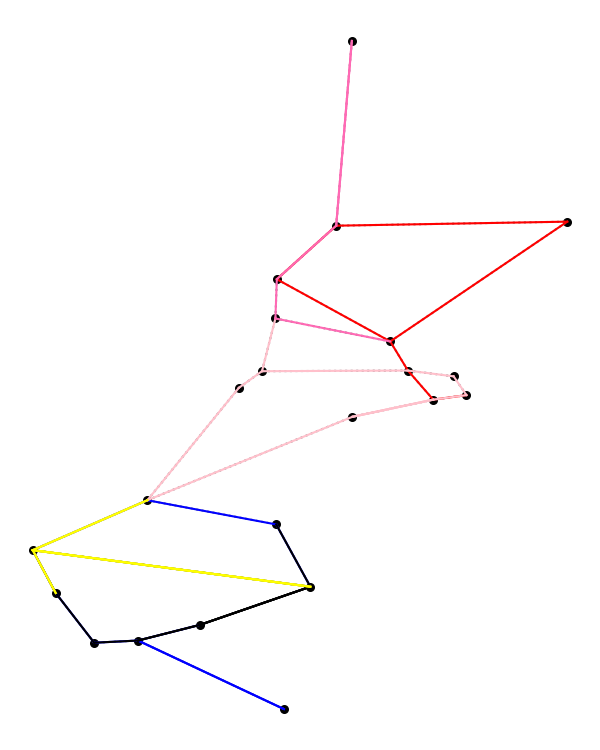
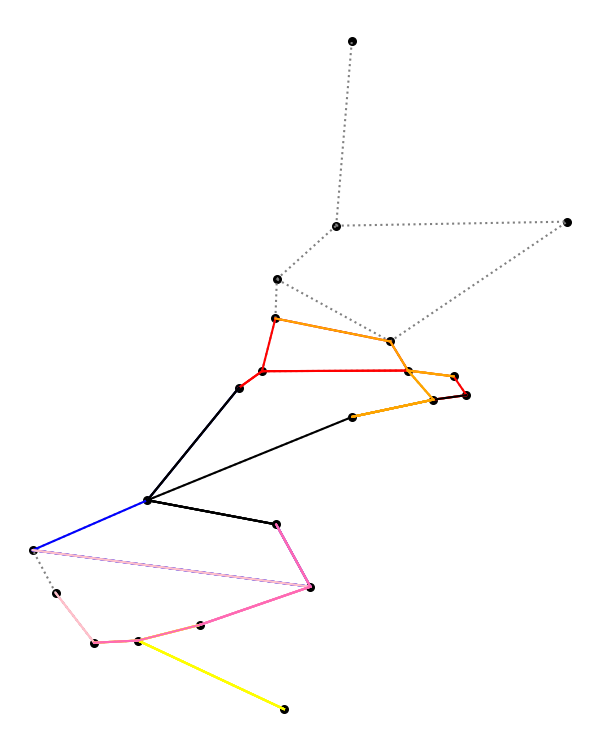
class Random

diff --git a/spoorschavuiten/code/algorithms/randomWithConstraints.py b/spoorschavuiten/code/algorithms/randomWithConstraints.py
@@ -4,50 +4,40 @@ from code.classes.classes import Route
 # ########################################################### #
 # This function takes used vs unused connections into account #
 # ########################################################### #
-def trajects(region, used):
-    max_trains = 7
+class Random:
+    def __init__(self, region, maxTime: int, maxTrains: int):
+        self.region = region
+        self.maxTime = maxTime
+        self.maxTrains = maxTrains
+        self.time = 0
 
-    for i in range(max_trains):
-        random_route(region, used)
-        if region.is_solution():
-            break   
 
-def random_route(region, usedStations) -> None:
-    maxTrains = 7
-    for i in range(maxTrains):
+    def createRandomSolution(self):
+        for _ in range(self.maxTrains):
+            self.createRandomTrajectory()
+            if self.region.is_solution():
+                break
+
+    def createRandomTrajectory(self) -> None:
+        '''
+        This function selects a random route for 1 train.
+        '''
         time = 0
         route = Route()
-        # usedStations = set()
-        current_station = random.choice(list(region._stations.values()))
-        while current_station in usedStations:
-            current_station = random.choice(list(region._stations.values()))
-        usedStations.add(current_station)
+        current_station = random.choice(list(self.region._stations.values()))
         route.add_station(current_station)
-        while time <= 120:
+        while time <= self.maxTime:
             possible_connections = []
-            unused_connections = []
-            
-            
-            for connection in region._connections:
+            for connection in self.region._connections:
                 if connection._stationA == current_station:
                     possible_connections.append((connection, "f"))
-                    if not connection._used:
-                        unused_connections.append((connection, "f"))
                 if connection._stationB == current_station:
                     possible_connections.append((connection, "b"))
-                    if not connection._used:
-                        unused_connections.append((connection, "b"))
-
-            # choose randomly from (unused) possible connections
-            if len(unused_connections) > 0:
-                connection, direction = random.choice(unused_connections)
-            else:    
-                connection, direction = random.choice(possible_connections)
-
+            # choose randomly from possible connections
+            connection, direction = random.choice(possible_connections)
             time += connection.get_dist()
-            
             # check if max time exceeded
-            if time > 120:
+            if time > self.maxTime:
                 time -= connection.get_dist()
                 break
             connection.is_used()
@@ -60,8 +50,156 @@ def random_route(region, usedStations) -> None:
             route.add_connection(connection)
             route.add_station(current_station)
 
-        region.add_route(route)
-        region.update_time(time)
-        if region.is_solution():
-            break 
+        self.region.add_route(route)
+        self.region.update_time(time)
+
+
+
+
+    def choose_station(self):
+        return random.choice(list(self.region._stations.values()))
+
+
+    def get_connections(self, currentStation) -> list:
+        connections = []
+        # print(self.region._connections)
+        for connection in self.region._connections:
+            # print(connection._stationA)
+            # print(connection._stationB)
+
+            if connection._stationA == currentStation:
+                connections.append((connection, "f"))
+            if connection._stationB == currentStation:
+                connections.append((connection, "b"))
+        return connections
     
+
+    def choose_connection(self, possibleConnections):
+        return random.choice(possibleConnections)
+
+
+    def add_time(self, extraTime):
+        self.time += extraTime
+        # return self.time
+
+
+    def subtract_time(self, extraTime):
+        self.time -= extraTime
+
+
+    def set_connection_is_used(self, connection):
+        connection.is_used()
+
+
+    def set_new_station(self, station, direction, connection):
+        if direction == "f":
+            station = connection._stationB
+        else:
+            station = connection._stationA
+        return station
+    
+    def reset(self):
+        self.region._routes.clear()
+        self.region._time_used = 0
+
+        for connection in self.region._connections:
+            connection._used = False
+
+        # raise NotImplementedError
+
+
+    def run(self):
+        self.reset()
+        for _ in range(self.maxTrains):
+            route = Route()
+            self.time = 0
+        # Kies een random station om met de trein te beginnen.
+            currentStation = self.choose_station()
+            route.add_station(currentStation)
+
+        # Kies op het station een connectie om berijden
+            while self.time <= self.maxTime:
+                possibleConnections = self.get_connections(currentStation)
+                chosenConnection, direction = self.choose_connection(possibleConnections)
+        # Voeg deze connectie toe aan het traject, voeg de afstand toe
+                self.add_time(chosenConnection.get_dist())
+                if self.time > self.maxTime:
+                    self.subtract_time(chosenConnection.get_dist())
+                    break
+                self.set_connection_is_used(chosenConnection)
+                currentStation = self.set_new_station(currentStation, direction, chosenConnection)
+                route.add_connection(chosenConnection)
+                route.add_station(currentStation)
+
+            self.region.add_route(route)
+            self.region.update_time(self.time)
+        # Stop met trajecten leggen als alle verbindingen zijn gemaakt.
+            if self.region.is_solution():
+                break
+        # self.reset()
+
+
+
+
+            
+
+        # Herhaal tot time > maxTime bij de volgende stap, of tot er maxTrain aantal trajecten zijn gemaakt.
+
+
+
+
+
+
+# def random_route(region, usedStations) -> None:
+#         maxTrains = 7
+#         for i in range(maxTrains):
+#             time = 0
+#             route = Route()
+#             # usedStations = set()
+#             current_station = random.choice(list(region._stations.values()))
+#             while current_station in usedStations:
+#                 current_station = random.choice(list(region._stations.values()))
+#             usedStations.add(current_station)
+#             route.add_station(current_station)
+#             while time <= 120:
+#                 possible_connections = []
+#                 unused_connections = []
+                
+                
+#                 for connection in region._connections:
+#                     if connection._stationA == current_station:
+#                         possible_connections.append((connection, "f"))
+#                         if not connection._used:
+#                             unused_connections.append((connection, "f"))
+#                     if connection._stationB == current_station:
+#                         possible_connections.append((connection, "b"))
+#                         if not connection._used:
+#                             unused_connections.append((connection, "b"))
+
+#                 # choose randomly from (unused) possible connections
+#                 if len(unused_connections) > 0:
+#                     connection, direction = random.choice(unused_connections)
+#                 else:    
+#                     connection, direction = random.choice(possible_connections)
+
+#                 time += connection.get_dist()
+                
+#                 # check if max time exceeded
+#                 if time > 120:
+#                     time -= connection.get_dist()
+#                     break
+#                 connection.is_used()
+#                 # check to move forwards or backwards
+#                 if direction == "f":
+#                     current_station = connection._stationB
+#                 else:
+#                     current_station = connection._stationA
+
+#                 route.add_connection(connection)
+#                 route.add_station(current_station)
+
+#             region.add_route(route)
+#             region.update_time(time)
+#             if region.is_solution():
+#                 break 
+        

diff --git a/spoorschavuiten/distribution.py b/spoorschavuiten/distribution.py
@@ -1,34 +1,51 @@
 from code.classes.classes import Region
-from code.algorithms import randomise, randomise2, randomWithConstraints
-from code.visualization.visualize import outputGraph, outputGraphHist
+# from code.algorithms import randomise, randomise2, randomWithConstraints
+from code.algorithms import randomWithConstraints as rd
+from code.visualization.visualize import *
 import time
 
 
 if __name__ == "__main__":
 
+    holland = Region("data/StationsHolland.csv", "data/ConnectiesHolland.csv")
+
     start = time.time()
     all_outputs = []
-    times = 100000
+    times = 50
     timeList = []
+    colors = ["red", "blue", "pink", "black", "yellow",
+        "hotpink", "orange", "violet", "cyan", "purple",
+        "maroon", "indigo", "teal", "magenta", "crimson", "palevioletred", 
+        "salmon", "deepskyblue", "deeppink", "darkviolet", "goldenrod"]
 
     for i in range(times):
         timeList.append(i + 1)
 
-    for i in range(times):
-        holland = Region("data/StationsHolland.csv", "data/ConnectiesHolland.csv")
-        max_trains = 7
+    
 
-        for i in range(max_trains):
-            randomise.random_route(holland)
-            if holland.is_solution():
-                break
-        output = holland.calculate_value()
+    for _ in range(times):
+        # holland = Region("data/StationsHolland.csv", "data/ConnectiesHolland.csv")
+        # max_trains = 7
+
+        # for i in range(max_trains):
+        #     randomise.random_route(holland)
+        #     if holland.is_solution():
+        #         break
+        randomSolution = rd.Random(holland, 120, 7)
+        randomSolution.run()
+        onlyLines(holland)
+        drawUsedConnections(holland, colors)
+        visualizeMap(holland, "test.png")
+
+        output = randomSolution.region.calculate_value()
+        print(holland.calculate_value())
         all_outputs.append(output)
 
     print("Average = " + str(sum(all_outputs) / 100000))
     end = time.time()
     # outputGraph(all_outputs, timeList)
-    outputGraphHist(all_outputs, timeList)
+    print(all_outputs)
+    # outputGraphHist(all_outputs, timeList)
 
     
     print(end - start)

diff --git a/spoorschavuiten/main_visualisation.py b/spoorschavuiten/main_visualisation.py
@@ -1,6 +1,7 @@
 from code.visualization.visualize import makeMap, visualizeMap, drawUsedConnections, outputGraph, makeMapWithNames, onlyLines
 from code.classes.classes import Region
-from code.algorithms import randomise, randomise2
+from code.algorithms import randomise, randomise2, randomWithConstraints
+from code.algorithms.randomWithConstraints import Random
 
 holland = Region("data/StationsHolland.csv", "data/ConnectiesHolland.csv")
 
@@ -12,21 +13,25 @@ colors = ["red", "blue", "pink", "black", "yellow",
         "maroon", "indigo", "teal", "magenta", "crimson", "palevioletred", 
         "salmon", "deepskyblue", "deeppink", "darkviolet", "goldenrod"]
 
-for i in range(max_trains):
-    randomise2.random_route_2(holland)
-    if holland.is_solution():
-        break
+# for i in range(max_trains):
+#     randomise2.random_route_2(holland)
+#     if holland.is_solution():
+#         break
+
+# randomWithConstraints.createRandomSolution(holland, 120, 7)
+random = Random(holland, 120, 7)
+random.run()
 
 holland.generate_output()
 makeMapWithNames(holland)
 drawUsedConnections(holland, colors)
 visualizeMap(holland, "figures/connectionsWithStationNames.png")
 
-makeMap(holland)
-drawUsedConnections(holland, colors)
-visualizeMap(holland, "figures/connectionsInTheNetherlands.png")
+# makeMap(holland)
+# drawUsedConnections(holland, colors)
+# visualizeMap(holland, "figures/connectionsInTheNetherlands.png")
 
-onlyLines(holland)
-drawUsedConnections(holland, colors)
-visualizeMap(holland, "figures/onlyLines.png")
-print(len(colors))
+# onlyLines(holland)
+# drawUsedConnections(holland, colors)
+# visualizeMap(holland, "figures/onlyLines.png")
+# print(len(colors))
